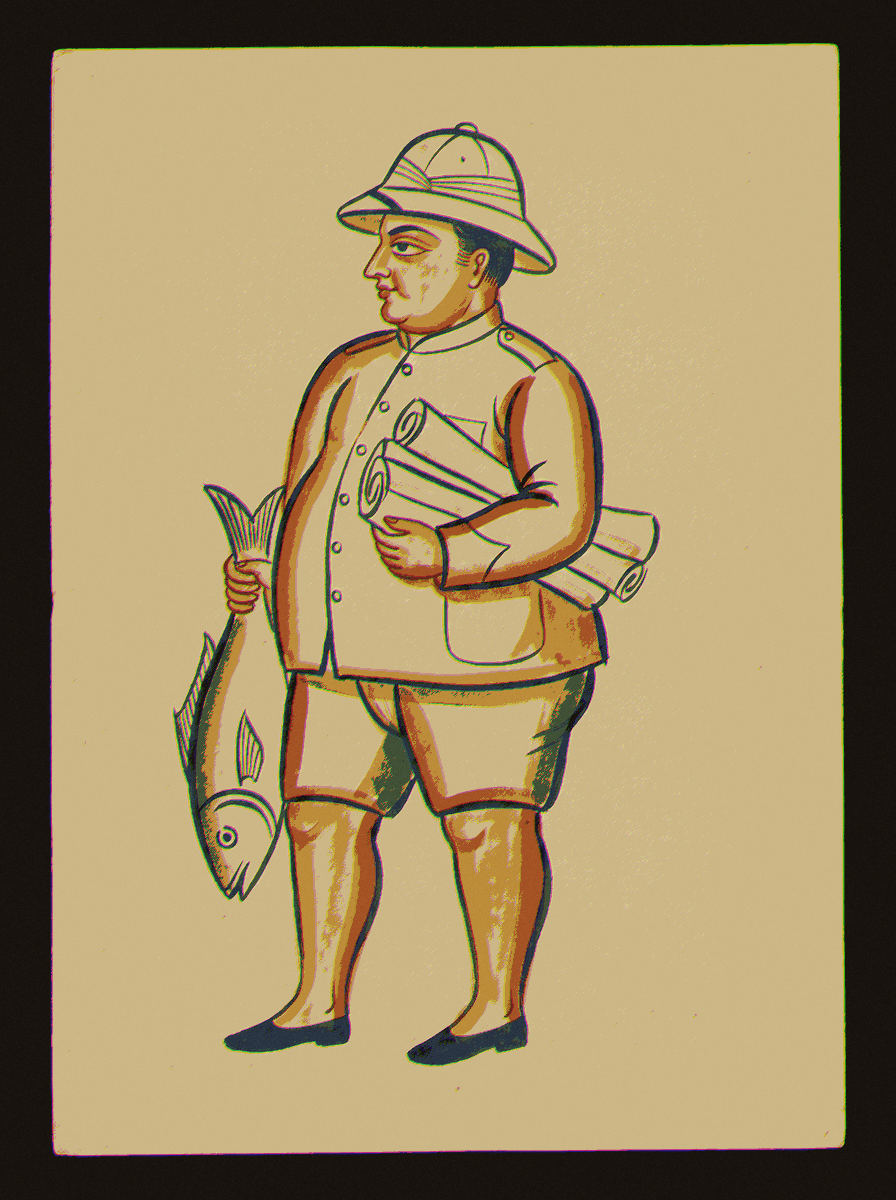
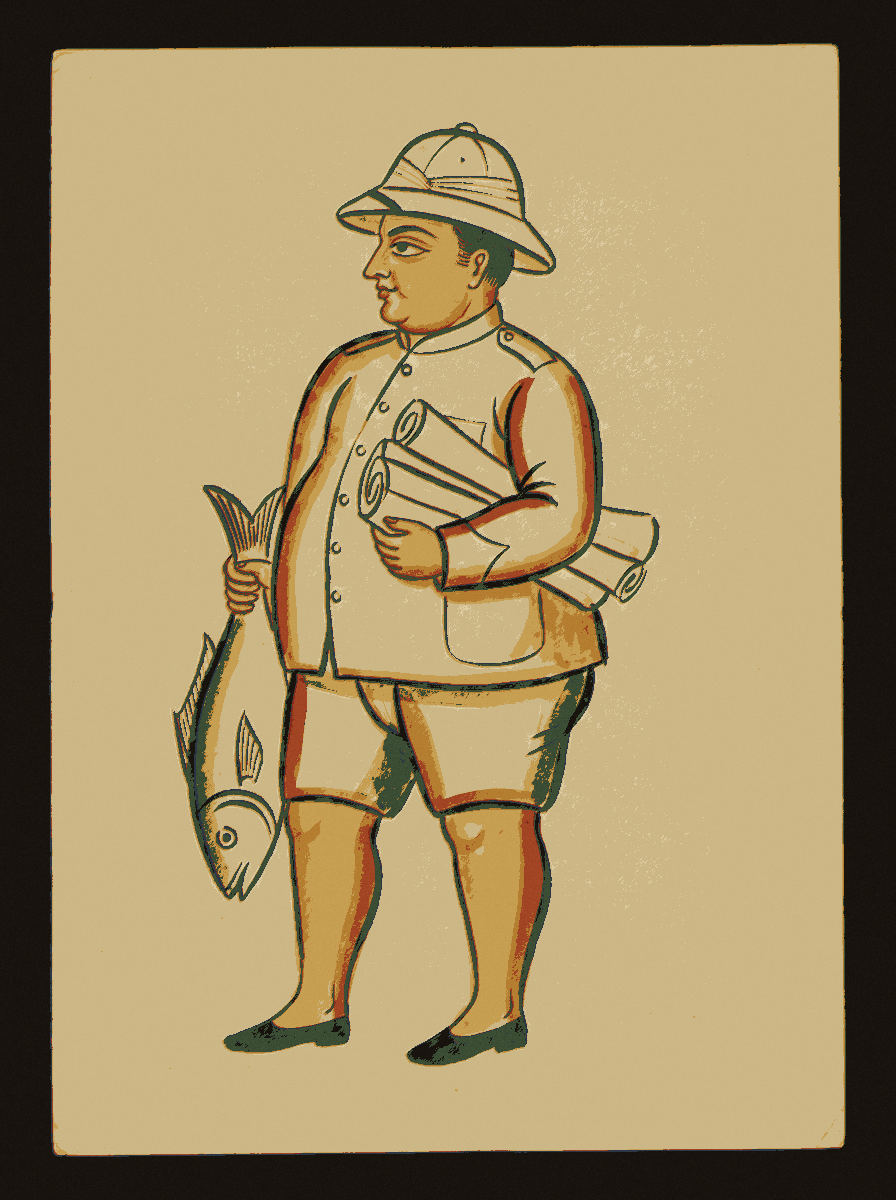
Chromolithograph: shoot the stone from the artwork, not the other way round
Misregistration now happens before posterising. Doing it after meant every
hard edge the posterise had just created got a coloured ring around it, which
read as a printing fault rather than as printing.

The ink set had no mid red, and the distance metric weighted green hardest —
luminance weighting, right for greyscale and wrong here, which let a saturated
vermilion fall to a yellow of similar brightness. That is why the pats came
back ochre. Nine inks now, with the earth red and its lighter pull both
present, matched on plain distance.

The Kalighat register was painting its sheet on a dark table. The paper is now
required to fill the frame edge to edge.

Verify chain green.

diff --git a/scripts/treat-art.js b/scripts/treat-art.js
@@ -35,8 +35,11 @@ var PROCESS = {
 // The ink set a cheap chromolithograph could actually hold. Posterising to
 // these is what stops a generated image reading as a photograph of a painting.
 var INKS = [
-  [26, 22, 18], [122, 42, 32], [188, 96, 46], [214, 168, 74],
-  [70, 96, 74], [44, 62, 96], [232, 219, 188], [252, 248, 236]
+  [26, 22, 18],                          // key
+  [150, 46, 34], [186, 78, 44],          // earth red, and its lighter pull
+  [206, 150, 60], [226, 190, 110],       // ochre, and its tint
+  [64, 92, 72], [46, 64, 100],           // malachite, indigo
+  [232, 219, 188], [250, 244, 228]       // paper, and the highlight
 ];
 
 var PAPER = { r: 226, g: 213, b: 180 };
@@ -53,7 +56,7 @@ function nearestInk(r, g, b) {
   var best = 0, bestD = Infinity;
   for (var i = 0; i < INKS.length; i++) {
     var dr = r - INKS[i][0], dg = g - INKS[i][1], db = b - INKS[i][2];
-    var d = dr * dr * 0.3 + dg * dg * 0.59 + db * db * 0.11;
+    var d = dr * dr + dg * dg + db * db;
     if (d < bestD) { bestD = d; best = i; }
   }
   return INKS[best];
@@ -68,10 +71,9 @@ async function chromo(buf, w, h) {
   var raw = await img.raw().toBuffer({ resolveWithObject: true });
   var d = raw.data, W = raw.info.width, H = raw.info.height, C = raw.info.channels;
 
-  var flat = Buffer.alloc(W * H * 3);
+  var rgb = Buffer.alloc(W * H * 3);
   for (var i = 0, j = 0; i < d.length; i += C, j += 3) {
-    var ink = nearestInk(d[i], d[i + 1], d[i + 2]);
-    flat[j] = ink[0]; flat[j + 1] = ink[1]; flat[j + 2] = ink[2];
+    rgb[j] = d[i]; rgb[j + 1] = d[i + 1]; rgb[j + 2] = d[i + 2];
   }
 
   // Misregistration: nudge two of the three separations a pixel apart. Done on
@@ -85,9 +87,15 @@ async function chromo(buf, w, h) {
       for (var c = 0; c < 3; c++) {
         var sx = x - shifts[c][0]; if (sx < 0) sx = 0; else if (sx >= W) sx = W - 1;
         var sy = y - shifts[c][1]; if (sy < 0) sy = 0; else if (sy >= H) sy = H - 1;
-        mis[(y * W + x) * 3 + c] = flat[(sy * W + sx) * 3 + c];
+        mis[(y * W + x) * 3 + c] = rgb[(sy * W + sx) * 3 + c];
       }
     }
+  }
+  // Posterise last: the stones were shot from the artwork, not the other way
+  // round, so the ink set quantises an already-misregistered image.
+  for (var q = 0; q < mis.length; q += 3) {
+    var ink = nearestInk(mis[q], mis[q + 1], mis[q + 2]);
+    mis[q] = ink[0]; mis[q + 1] = ink[1]; mis[q + 2] = ink[2];
   }
   var joined = await sharp(mis, { raw: { width: W, height: H, channels: 3 } }).png().toBuffer();
 
